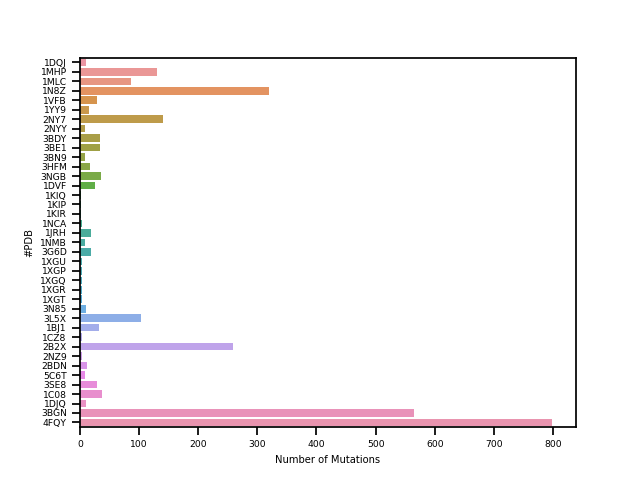
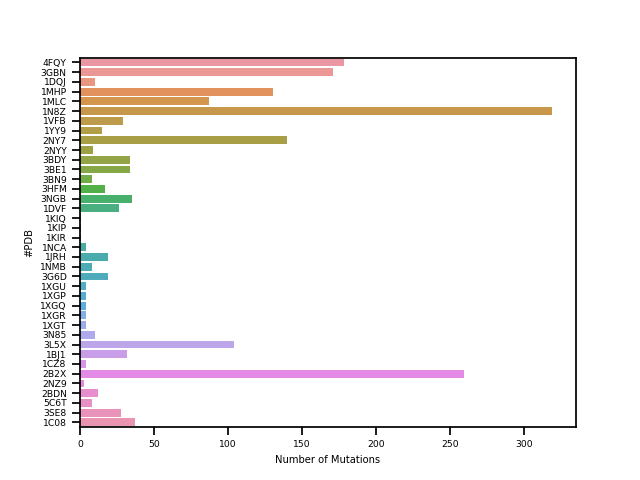
finishing up final data stuff. data v2.0, with interfaces marked ancsv edited to only include 10 phillips at interface

Changed region(s): [[0.0625, 0.125, 0.875, 0.9062], [0.1875, 0.8438, 0.875, 0.9375]]

diff --git a/interfaces.py b/interfaces.py
@@ -3,3 +3,150 @@ column to the data telling whether interface
 residues are in the mutations.
 Author: Karson Chrispens"""
 
+import re
+import numpy as np
+import pandas as pd
+data = pd.read_csv("./raw_datasets/use_this_data.csv")
+# This is terribly messy but will have to do - 
+# used pymol command interfaceResidues("#PDB", c1: antibody chain, c2: antigen chain, "selection name") 
+# from script provided here: https://pymolwiki.org/index.php/InterfaceResidues
+
+pdb_1BJ1 = ['T30', 'N31', 'Y32', 'G33', 'W47', 'W50', 'N52', 'T53', 'Y54', 'T55', 'E57', 'T59', 'Y99', 'P100', 'H101', 'Y102', 'Y103', 'G104', 'S105',
+            'S106', 'H107', 'W108', 'F17', 'Y21', 'Y45', 'K48', 'Q79', 'I80', 'M81', 'R82', 'I83', 'K84', 'H86', 'Q87', 'G88', 'Q89', 'H90', 'I91', 'G92', 'E93', 'M94']
+pdb_1NMB = ['Y52', 'G53', 'N54', 'G55', 'D56', 'T57', 'S58', 'Y99', 'R100', 'Y100A', 'D100B', 'I2', 'Q27', 'D28', 'S30', 'N31', 'Y32', 'Y50', 'D91', 'F92', 'T93',
+            'L94', 'F96', 'P328', 'N329', 'D330', 'P331', 'T332', 'Y341', 'P342', 'G343', 'N344', 'I366', 'S367', 'I368', 'A369', 'S370', 'S372', 'N400', 'T401', 'W403', 'K432']
+pdb_3BDY = ['Y33', 'R50', 'Y52', 'N54', 'W95', 'D98', 'G99', 'F100', 'Y100A', 'R27D', 'S28', 'I29', 'S30', 'G31', 'Y32', 'W50', 'Y53',
+            'H91', 'Y92', 'T93', 'T94', 'Y45', 'K48', 'Q79', 'M81', 'R82', 'I83', 'K84', 'P85', 'H86', 'Q87', 'G88', 'Q89', 'H90', 'I91', 'G92', 'E93']
+pdb_1C08 = ['Q27', 'S28', 'G30', 'N31', 'N32', 'K49', 'Y50', 'Q53', 'S91', 'N92', 'S93', 'W94', 'Y96', 'T30', 'S31', 'D32', 'Y33', 'Y50', 'S52', 'Y53', 'S54', 'S56', 'Y58', 'W98', 'D99',
+            'D101', 'K13', 'R14', 'H15', 'G16', 'D18', 'N19', 'Y20', 'R21', 'W62', 'W63', 'R73', 'N74', 'L75', 'N77', 'T89', 'N93', 'K96', 'K97', 'V99', 'S100', 'D101', 'G102', 'N103', 'A107']
+pdb_1VFB = ['H30', 'Y32', 'Y49', 'Y50', 'T52', 'T53', 'F91', 'W92', 'S93', 'R96', 'T30', 'G31', 'Y32', 'G33', 'W52', 'G53', 'D54', 'R99', 'D100', 'Y101', 'R102', 'K13',
+            'D18', 'N19', 'R21', 'G22', 'Y23', 'S24', 'L25', 'G26', 'N27', 'G102', 'N103', 'K116', 'G117', 'T118', 'D119', 'V120', 'Q121', 'I124', 'R125', 'G126', 'C127', 'L129']
+pdb_3BE1 = ['P557', 'E558', 'D560', 'Q561', 'K569', 'D570', 'P571', 'P572', 'F573', 'P579', 'I591', 'W592', 'K593', 'E598', 'A600', 'C601', 'Q602', 'P603', 'C604',
+            'P605', 'Y33', 'R50', 'Y52', 'Y56', 'T57', 'R58', 'W95', 'G97', 'D98', 'G99', 'F100', 'Y100A', 'R27D', 'S28', 'G31', 'Y32', 'W50', 'Y53', 'H91', 'Y92', 'T93', 'T94']
+pdb_1CZ8 = ['T30', 'H31', 'Y32', 'G33', 'W47', 'W50', 'N52', 'Y54', 'T55', 'T59', 'Y99', 'P100', 'Y101', 'Y102', 'Y103', 'G104', 'T105', 'S106', 'H107', 'W108', 'Y91', 'S92',
+            'T93', 'V94', 'W96', 'V14', 'F17', 'Y21', 'Y39', 'Y45', 'K48', 'Q79', 'I80', 'M81', 'R82', 'I83', 'K84', 'P85', 'H86', 'Q87', 'G88', 'Q89', 'H90', 'I91', 'G92', 'E93', 'M94']
+pdb_1XGP = ['S28', 'S30', 'N31', 'N32', 'K49', 'Y50', 'Q53', 'S91', 'N92', 'S93', 'W94', 'Y96', 'T30', 'S31', 'D32', 'A33', 'Y50', 'S52', 'Y53', 'S54', 'S56',
+            'Y58', 'W98', 'G99', 'K13', 'R14', 'H15', 'G16', 'D18', 'N19', 'Y20', 'R21', 'W63', 'R73', 'N74', 'L75', 'T89', 'N93', 'K96', 'K97', 'V99', 'S100', 'D101', 'G102']
+pdb_3BN9 = ['I41', 'C42', 'C42', 'H57', 'C58', 'C58', 'I60', 'D60A', 'D60B', 'R60C', 'G60D', 'F94', 'N95', 'D96', 'F97', 'T98', 'F99', 'H143', 'Y146', 'G147', 'L172', 'P173', 'Q174', 'Q175', 'S190', 'C191', 'Q192', 'S195', 'V213', 'S214', 'W215', 'G216', 'D217', 'G219',
+            'C220', 'Q221A', 'K224', 'S30', 'Y32', 'G92', 'N93', 'L94', 'Y96', 'F27', 'T28', 'F29', 'S30', 'S31', 'A33', 'A50', 'I51', 'S52', 'G52A', 'S53', 'G55', 'S56', 'Y58', 'N73', 'N76', 'T98', 'Y99', 'P100', 'Q100A', 'R100B', 'R100C', 'G100D', 'P100E', 'Q100F', 'N100G', 'V100H']
+pdb_1DQJ = ['S28', 'S30', 'N31', 'N32', 'K49', 'Y50', 'Q53', 'S67', 'S67', 'S91', 'N92', 'S93', 'W94', 'Y96', 'D27', 'T30', 'S31', 'D32', 'Y33', 'Y50', 'S52', 'Y53', 'S54', 'S56', 'Y58', 'W98',
+            'G99', 'D101', 'D101', 'K13', 'R14', 'H15', 'G16', 'D18', 'N19', 'Y20', 'R21', 'W62', 'W63', 'R73', 'L75', 'N77', 'T89', 'N93', 'K96', 'K97', 'V99', 'S100', 'D101', 'G102', 'N103', 'A107']
+pdb_1XGQ = ['S28', 'S30', 'N31', 'N32', 'K49', 'Y50', 'Q53', 'S91', 'N92', 'S93', 'W94', 'Y96', 'D27', 'T30', 'S31', 'D32', 'V33', 'Y50', 'S52', 'Y53', 'S54', 'S56', 'Y58', 'W98',
+            'G99', 'K13', 'R14', 'H15', 'G16', 'D18', 'N19', 'Y20', 'R21', 'W62', 'W63', 'R73', 'L75', 'N77', 'T89', 'N93', 'K96', 'K97', 'I98', 'S100', 'D101', 'G102', 'N103', 'A107']
+pdb_3G6D = ['V4', 'P5', 'P6', 'R11', 'I14', 'E15', 'V18', 'N19', 'T21', 'Q22', 'N23', 'Q24', 'K25', 'K97', 'L100', 'L101', 'K104', 'K105', 'F107', 'R108', 'E109', 'T28', 'S31', 'Y32',
+            'Y53', 'L100', 'G101', 'A102', 'F103', 'H104', 'W105', 'D106', 'Q108', 'Y2', 'D25', 'N26', 'G28', 'G29', 'T30', 'F31', 'Y48', 'D49', 'D50', 'D52', 'N65', 'W90', 'D91', 'M92', 'V93']
+pdb_1DVF = ['H30', 'Y32', 'Y49', 'Y50', 'T53', 'D56', 'F91', 'W92', 'S93', 'T94', 'R96', 'T30', 'G31', 'Y32', 'G33', 'W52', 'G53', 'D54', 'N56', 'T57', 'D58', 'E98', 'R99', 'D100', 'Y101',
+            'R102', 'Y32', 'Y49', 'Y50', 'R53', 'N92', 'T93', 'L94', 'W96', 'K30', 'D31', 'H33', 'R50', 'D52', 'A53', 'N54', 'N56', 'Q58', 'K95', 'V96', 'I97', 'Y98', 'Y99', 'Q100', 'G100A', 'R100B']
+pdb_1XGR = ['S28', 'S30', 'N31', 'N32', 'K49', 'Y50', 'Q53', 'S91', 'N92', 'S93', 'W94', 'Y96', 'T30', 'S31', 'D32', 'I33', 'Y50', 'S52', 'Y53', 'S54', 'S56', 'Y58', 'W98', 'G99',
+            'D101', 'K13', 'R14', 'H15', 'G16', 'D18', 'N19', 'Y20', 'R21', 'W62', 'W63', 'R73', 'N74', 'L75', 'N77', 'T89', 'N93', 'K96', 'K97', 'V99', 'S100', 'D101', 'G102', 'N103']
+pdb_3GBN = ['H18', 'H38', 'V40', 'N41', 'L42', 'S291', 'L292', 'P293', 'T318', 'G319', 'I18', 'D19', 'G20', 'W21', 'A36', 'Q38', 'T41', 'Q42', 'I45', 'D46',
+            'I48', 'T49', 'V52', 'N53', 'I56', 'G27', 'P28', 'F29', 'R30', 'S31', 'P52A', 'I53', 'F54', 'T56', 'D72', 'F74', 'A75', 'M96', 'G97', 'Y98', 'Q99', 'R100A']
+pdb_1JRH = ['Y32', 'G33', 'W52', 'W53', 'D54', 'D56', 'Y58', 'Y59', 'P61', 'R95', 'Y99', 'G100', 'H100B', 'K47', 'Y49', 'G50', 'V51', 'K52', 'N53',
+            'S54', 'E55', 'W56', 'D76', 'S78', 'S80', 'W82', 'R84', 'K98', 'S99', 'V2', 'E27', 'D28', 'Y30', 'R32', 'K69', 'Y91', 'W92', 'S93', 'T94', 'W96']
+pdb_1XGT = ['S28', 'S30', 'N31', 'N32', 'K49', 'Y50', 'Q53', 'S67', 'S91', 'N92', 'S93', 'W94', 'Y96', 'T30', 'S31', 'D32', 'L33', 'Y50', 'S52', 'Y53', 'S54', 'S56', 'Y58', 'W98', 'G99',
+            'D101', 'K13', 'R14', 'H15', 'G16', 'D18', 'N19', 'Y20', 'R21', 'W62', 'W63', 'R73', 'N74', 'L75', 'N77', 'T89', 'N93', 'K96', 'K97', 'I98', 'V99', 'S100', 'D101', 'G102', 'N103']
+pdb_3HFM = ['T30', 'S31', 'D32', 'Y33', 'Y50', 'S52', 'Y53', 'S54', 'S56', 'Y58', 'W98', 'G30', 'N31', 'N32', 'K49', 'Y50', 'Q53', 'S67', 'S91', 'N92', 'S93', 'W94', 'Y96',
+            'K13', 'R14', 'H15', 'G16', 'D18', 'N19', 'Y20', 'R21', 'W62', 'W63', 'R73', 'L75', 'N77', 'T89', 'N93', 'K96', 'K97', 'I98', 'V99', 'S100', 'D101', 'G102', 'N103', 'A107']
+pdb_1KIP = ['H30', 'Y32', 'Y49', 'Y50', 'T53', 'F91', 'W92', 'S93', 'R96', 'T30', 'G31', 'A32', 'G33', 'W52', 'G53', 'D54', 'R99', 'D100', 'Y101', 'R102',
+            'D18', 'N19', 'G22', 'Y23', 'S24', 'L25', 'G26', 'N27', 'G102', 'N103', 'K116', 'G117', 'T118', 'D119', 'V120', 'Q121', 'I124', 'R125', 'G126', 'C127']
+pdb_1XGU = ['S28', 'S30', 'N31', 'N32', 'K49', 'Y50', 'Q53', 'S67', 'S91', 'N92', 'S93', 'W94', 'Y96', 'T30', 'S31', 'D32', 'F33', 'Y50', 'S52', 'Y53', 'S54', 'S56', 'Y58', 'W98',
+            'G99', 'K13', 'R14', 'H15', 'G16', 'D18', 'N19', 'Y20', 'R21', 'W62', 'W63', 'S72', 'R73', 'L75', 'N77', 'T89', 'N93', 'K96', 'K97', 'V99', 'S100', 'D101', 'G102', 'N103', 'A107']
+pdb_3L5X = ['R11', 'I14', 'E15', 'V18', 'L101', 'K104', 'K105', 'F107', 'R108', 'E109', 'G110', 'Y32',
+            'W54', 'W55', 'D56', 'V58', 'K59', 'R60', 'D103', 'Y104', 'D105', 'K31', 'Y32', 'H91', 'N92', 'Y96']
+pdb_1KIQ = ['H30', 'Y32', 'Y49', 'Y50', 'T53', 'F91', 'W92', 'S93', 'T30', 'G31', 'Y32', 'G33', 'W52', 'G53', 'D54', 'R99', 'D100', 'F101', 'R102', 'K13',
+            'D18', 'N19', 'G22', 'Y23', 'S24', 'G26', 'N27', 'G102', 'N103', 'K116', 'G117', 'T118', 'D119', 'V120', 'Q121', 'I124', 'R125', 'G126', 'C127', 'L129']
+pdb_1YY9 = ['P349', 'R353', 'L382', 'Q384', 'Q408', 'H409', 'Q411', 'F412', 'A415', 'V417', 'S418', 'I438', 'S440', 'G441', 'K443', 'N449', 'K465', 'I466', 'I467', 'S468', 'N469', 'R470', 'G471',
+            'E472', 'N473', 'Q27', 'S28', 'N32', 'K49', 'Y50', 'N91', 'N92', 'N93', 'W94', 'T96', 'N31', 'W52', 'S53', 'G54', 'G55', 'N56', 'T57', 'D58', 'Y59', 'T100', 'Y101', 'Y102', 'D103', 'Y104', 'E105']
+pdb_3N85 = ['Q371', 'P372', 'E373', 'Q376', 'E379', 'D395', 'S396', 'L397', 'P398', 'D399', 'S401', 'V402', 'Q404', 'G427', 'S429', 'W430', 'R434', 'T450', 'H451', 'R477', 'P478', 'D480', 'E481', 'V483', 'G484', 'E485', 'G486', 'L487',
+            'P501', 'G502', 'T504', 'Q505', 'G26', 'F27', 'S28', 'W30', 'W30', 'W31', 'S32', 'W33', 'S52', 'S53', 'S54', 'G55', 'W56', 'S58', 'Y59', 'D61', 'K64', 'T73', 'R94', 'W95', 'W96', 'S97', 'S98', 'A32', 'S50', 'W91', 'W92', 'W93', 'W94', 'P95']
+pdb_1KIR = ['H30', 'Y32', 'Y49', 'S50', 'T53', 'F91', 'W92', 'S93', 'R96', 'T30', 'G31', 'Y32', 'G33', 'W52', 'G53', 'D54', 'R99', 'D100', 'Y101', 'R102',
+            'D18', 'N19', 'G22', 'Y23', 'S24', 'L25', 'G26', 'N27', 'G102', 'N103', 'W111', 'K116', 'G117', 'T118', 'D119', 'V120', 'Q121', 'I124', 'R125', 'G126', 'L129']
+pdb_2B2X = ['S156', 'N157', 'S158', 'I159', 'Y160', 'P161', 'E192', 'Q218', 'R219', 'G220', 'G221', 'R222', 'Q223', 'T224', 'M225', 'E259', 'S260', 'H261', 'N263', 'Y264', 'H288', 'Y289', 'L294', 'S295',
+            'K298', 'L322', 'S30', 'R31', 'T33', 'W47', 'V50', 'S52', 'G53', 'G54', 'H56', 'Y58', 'Y59', 'F99', 'G100', 'D101', 'G103', 'Q28', 'V29', 'N30', 'H31', 'Y48', 'L49', 'Y52', 'W90', 'S91', 'N93', 'P94', 'W95']
+pdb_3NGB = ['K97', 'G124', 'G198', 'N276', 'T278', 'N279', 'N280', 'A281', 'K282', 'T283', 'S365', 'G366', 'G367', 'D368', 'I371', 'W427', 'Q428', 'G429', 'T430', 'T455', 'R456', 'D457', 'G458', 'G459', 'A460', 'N461', 'T463', 'N465', 'E466', 'T467',
+            'R469', 'G472', 'G473', 'N474', 'I30', 'T33', 'W47', 'W50', 'K52', 'R53', 'G54', 'G55', 'A56', 'V57', 'N58', 'Y59', 'A60', 'R61', 'P62', 'Q64', 'M69', 'R71', 'V73', 'Y74', 'D99', 'Y100', 'N100A', 'W100B', 'V3', 'Q27', 'Y28', 'Y91', 'E96', 'F97']
+pdb_1MHP = ['S156', 'N157', 'S158', 'Y160', 'E192', 'Q218', 'R219', 'G220', 'G221', 'R222', 'Q223', 'T224', 'M225', 'E259', 'S260', 'H261', 'N263', 'Y264', 'K298', 'D320', 'S30', 'R31',
+            'T33', 'W47', 'T50', 'S52', 'G53', 'G54', 'H56', 'Y58', 'Y59', 'N73', 'G100', 'D101', 'G103', 'S28', 'V29', 'N30', 'H31', 'L49', 'S66', 'G67', 'W90', 'S91', 'N93', 'P94', 'W95']
+pdb_2BDN = ['Y28', 'R30', 'I31', 'T32', 'S33', 'S34', 'K35', 'P37', 'K38', 'E39', 'A40', 'V41', 'P55', 'K56', 'Q61', 'M64', 'D65', 'D68', 'K69', 'E1', 'V2', 'G26', 'N28',
+            'K30', 'D31', 'T32', 'Y33', 'D52', 'A54', 'R98', 'G99', 'V100', 'F101', 'F103', 'D105', 'Y106', 'Y30', 'N31', 'R32', 'S49', 'G50', 'S53', 'E55', 'T56', 'F91', 'W92']
+pdb_3SE8 = ['K97', 'T123', 'G124', 'G198', 'S199', 'T257', 'N276', 'T278', 'N279', 'N280', 'A281', 'K282', 'T283', 'K357', 'S365', 'G366', 'G367', 'D368', 'E370', 'I371', 'N425', 'M426', 'W427', 'G429', 'T430', 'G431', 'T455', 'R456', 'D457', 'G458', 'G459', 'A460', 'N461', 'N462', 'T463', 'N465', 'E466',
+            'T467', 'R469', 'G472', 'G473', 'N474', 'I475', 'R30', 'S33', 'H35', 'E46', 'W47', 'W50', 'K52', 'L53', 'W54', 'G55', 'A56', 'V57', 'S58', 'Y59', 'A60', 'R61', 'Q62', 'Q64', 'R71', 'S74', 'Q75', 'D76', 'P76A', 'P76D', 'D99', 'Y100', 'G100B', 'D100C', 'F100D', 'E1', 'I2', 'Q27', 'N31', 'F91', 'E96', 'F97']
+pdb_1MLC = ['N32', 'Y50', 'S91', 'N92', 'S93', 'W94', 'R96', 'S30', 'T31', 'Y32', 'W33', 'E35', 'E50', 'L52', 'S55', 'G56', 'S57', 'T58', 'Y59', 'G99',
+            'D100', 'G101', 'Q41', 'T43', 'R45', 'N46', 'T47', 'D48', 'G49', 'S50', 'T51', 'Y53', 'N65', 'D66', 'G67', 'R68', 'T69', 'P70', 'P79', 'S81', 'L84']
+pdb_2NY7 = ['S257', 'N280', 'A281', 'S364', 'S365', 'G366', 'G367', 'D368', 'P369', 'E370', 'I371', 'V372', 'T373', 'W375', 'Y384', 'N386', 'P417', 'R419', 'V430', 'G431', 'K432', 'T455', 'R456', 'D457', 'R469', 'G472',
+            'G473', 'D474', 'M475', 'R28', 'S30', 'N31', 'F32', 'V33', 'W50', 'N52', 'P52A', 'Y53', 'N54', 'N56', 'K57', 'E58', 'T73', 'S74', 'N76', 'V95', 'P97', 'Y98', 'W100', 'D100B', 'P100D', 'Q100E', 'N100G', 'Y100H']
+pdb_4FQY = ['H18', 'N38', 'T40', 'E41', 'L42', 'D291', 'K292', 'P293', 'T318', 'I18', 'D19', 'G20', 'W21', 'A36', 'L38', 'L38', 'T41', 'Q42', 'I45', 'D46', 'I48', 'I48',
+            'N49', 'L52', 'N53', 'I56', 'T28', 'N30', 'N31', 'Y32', 'S52', 'P52A', 'I53', 'F54', 'G55', 'D72', 'I73', 'F74', 'N76', 'N97', 'Y98', 'Y99', 'Y100A', 'S100B', 'R31']
+pdb_1N8Z = ['D28', 'N30', 'T31', 'A32', 'Y49', 'S50', 'F53', 'R66', 'H91', 'Y92', 'T93', 'T94', 'Y33', 'R50', 'Y52', 'Y57', 'T58', 'R59', 'W99', 'G101', 'D102', 'G103', 'F104',
+            'Y105', 'P557', 'E558', 'D560', 'Q561', 'K569', 'D570', 'P571', 'P572', 'F573', 'V575', 'P579', 'I591', 'K593', 'D596', 'E598', 'A600', 'C601', 'Q602', 'P603', 'C604', 'P605']
+pdb_2NYY = ['S902', 'K903', 'F917', 'N918', 'L919', 'E920', 'S921', 'P950', 'F953', 'N954', 'S955', 'I956', 'K1056', 'L1057', 'D1058', 'G1059', 'C1060', 'R1061', 'D1062', 'T1063', 'H1064', 'R1065', 'Y1066', 'T1145', 'D1289', 'G1290',
+            'G1292', 'E1293', 'R1294', 'E27', 'S28', 'D30', 'S31', 'Y32', 'G33', 'H34', 'S35', 'F36', 'G70', 'S71', 'G95', 'N96', 'E97', 'V98', 'F100', 'Y31', 'Y33', 'Y35', 'S52', 'D53', 'G54', 'S56', 'Y57', 'T58', 'Y59', 'Y99', 'Y101', 'D102']
+pdb_5C6T = ['D275', 'Y280', 'G282', 'T283', 'R285', 'N286', 'F290', 'G291', 'E292', 'N293', 'A294', 'D295', 'F297', 'F298', 'I299', 'F300',
+            'P301', 'L321', 'Q1', 'R31', 'S32', 'T33', 'Y34', 'Y55', 'R58', 'W101', 'N102', 'Y103', 'F104', 'F105', 'Y109', 'Y50', 'R51', 'P56', 'S57']
+pdb_1NCA = ['T30', 'N31', 'Y32', 'G33', 'W50', 'N52', 'T52A', 'N53', 'T54', 'E56', 'E61', 'K64', 'E96', 'D97', 'N98', 'F99', 'S100A', 'L100B', 'D101', 'T31', 'Y49', 'W50', 'S52', 'T53', 'R54', 'H55', 'I56', 'H91', 'Y92', 'S93', 'P94',
+            'W96', 'I149', 'P326', 'R327', 'P328', 'N329', 'D330', 'G343', 'N344', 'N345', 'N347', 'I366', 'S367', 'I368', 'A369', 'S370', 'S372', 'T396', 'L399', 'N400', 'T401', 'D402', 'W403', 'P431', 'K432', 'E433', 'D434', 'K435', 'K463', 'E465']
+pdb_2NZ9 = ['S902', 'K903', 'F917', 'N918', 'L919', 'E920', 'S921', 'P950', 'F953', 'N954', 'S955', 'I956', 'K1056', 'L1057', 'D1058', 'G1059', 'C1060', 'R1061', 'D1062', 'T1063', 'H1064', 'R1065', 'Y1066', 'T1145', 'D1289', 'G1292',
+            'E1293', 'R1294', 'E27', 'S28', 'D30', 'S31', 'Y32', 'G33', 'H34', 'S35', 'F36', 'G70', 'S71', 'G95', 'N96', 'E97', 'V98', 'F100', 'S30', 'D31', 'Y33', 'Y35', 'T50', 'S52', 'D53', 'G54', 'S56', 'Y57', 'T58', 'Y59', 'Y99', 'Y101', 'D102']
+
+pdb_dict = {
+    "1BJ1": pdb_1BJ1,
+    "1NMB": pdb_1NMB,
+    "3BDY": pdb_3BDY,
+    "1C08": pdb_1C08,
+    "1VFB": pdb_1VFB,
+    "3BE1": pdb_3BE1,
+    "1CZ8": pdb_1CZ8,
+    "1XGP": pdb_1XGP,
+    "3BN9": pdb_3BN9,
+    "1DQJ": pdb_1DQJ,
+    "1XGQ": pdb_1XGQ,
+    "3G6D": pdb_3G6D,
+    "1DVF": pdb_1DVF,
+    "1XGR": pdb_1XGR,
+    "3GBN": pdb_3GBN,
+    "1JRH": pdb_1JRH,
+    "1XGT": pdb_1XGT,
+    "3HFM": pdb_3HFM,
+    "1KIP": pdb_1KIP,
+    "1XGU": pdb_1XGU,
+    "3L5X": pdb_3L5X,
+    "1KIQ": pdb_1KIQ,
+    "1YY9": pdb_1YY9,
+    "3N85": pdb_3N85,
+    "1KIR": pdb_1KIR,
+    "2B2X": pdb_2B2X,
+    "3NGB": pdb_3NGB,
+    "1MHP": pdb_1MHP,
+    "2BDN": pdb_2BDN,
+    "3SE8": pdb_3SE8,
+    "1MLC": pdb_1MLC,
+    "2NY7": pdb_2NY7,
+    "4FQY": pdb_4FQY,
+    "1N8Z": pdb_1N8Z,
+    "2NYY": pdb_2NYY,
+    "5C6T": pdb_5C6T,
+    "1NCA": pdb_1NCA,
+    "2NZ9": pdb_2NZ9
+}
+
+data.reindex()
+
+interfaces = []
+
+for index, row in data.iterrows():
+    mutations = re.split(";", row["Mutations"])
+    for mutation in mutations:
+        mutation = re.sub(r"\w:(\w\d+)\w", r"\1", mutation)
+        is_interface = mutation in pdb_dict[row["#PDB"]]
+        if is_interface:
+            break
+    interfaces.append(is_interface)
+
+data["Interface?"] = interfaces
+print(len(data[data["Interface?"] == True]))
+
+try:
+    data.to_csv('./raw_datasets/interface_data_use.csv')
+    print("Wrote file.")
+except:
+    print("Did not output.")

diff --git a/stats.py b/stats.py
@@ -10,8 +10,7 @@ import re
 
 sns.set_context("notebook", font_scale = 0.6)
 
-data = pd.read_csv("~/rosetta-antibody-ddgs/raw_datasets/full_data.csv")
-del data[data.columns[0]]
+data = pd.read_csv("~/rosetta-antibody-ddgs/raw_datasets/use_this_data.csv")
 
 ### Plotting average LD per PDB
 
@@ -82,7 +81,23 @@ plt.clf()
 
 ### Mutations per PDB without Phillips
 
-mut_pdbs = mut_pdbs[~(mut_pdbs["#PDB"].str.contains("3BGN") | mut_pdbs["#PDB"].str.contains("4FQY"))]
+mut_pdbs = mut_pdbs[~(mut_pdbs["#PDB"].str.contains("3GBN") | mut_pdbs["#PDB"].str.contains("4FQY"))]
 barplt = sns.barplot(x="Number of Mutations", y="#PDB", data=mut_pdbs)
 plt.savefig("./images/mutations_per_PDB_no_phillips.png")
+plt.clf()
+
+### Average ddG for interface vs non-interface mutations
+
+data = pd.read_csv("./raw_datasets/interface_data_use.csv")
+non_int = data[data["Interface?"] == False]
+interface = data[data["Interface?"] == True]
+
+non_int_avg = sum(non_int["ddG(kcal/mol)"]) / len(non_int)
+interface_avg = sum(interface["ddG(kcal/mol)"]) / len(interface)
+avgs = pd.DataFrame({
+    "Mutation Position": ["Interface", "Non-Interface"],
+    "Average ddG": [interface_avg, non_int_avg]
+})
+barplt = sns.barplot(x = "Mutation Position", y = "Average ddG", data=avgs)
+plt.savefig("./images/avg_ddG_interfaces.png")
 plt.clf()
